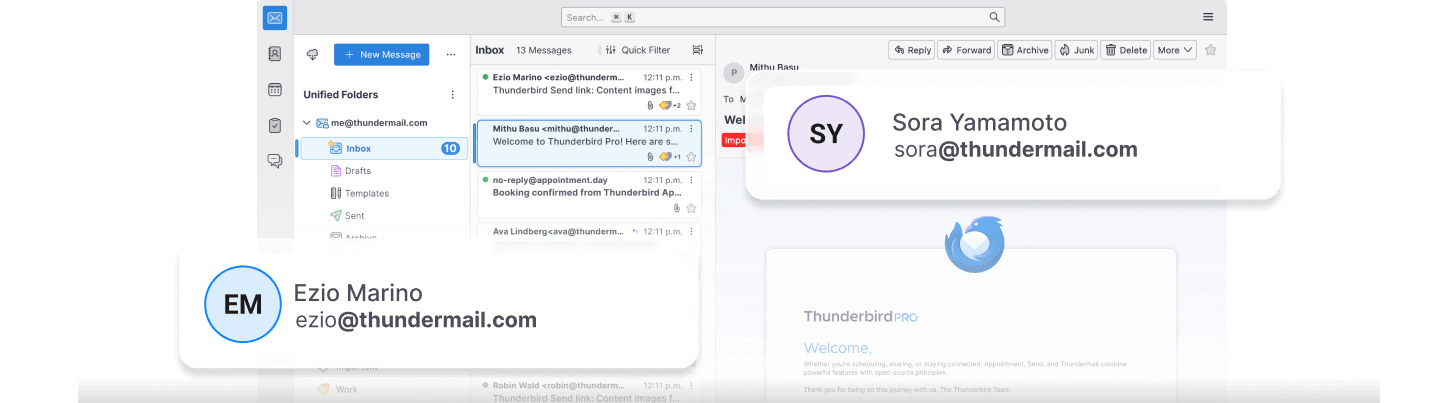
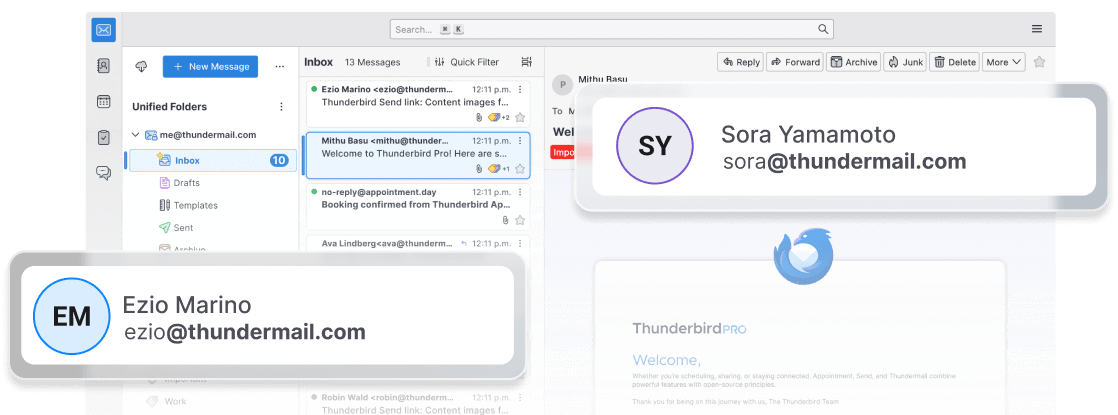
Only png by default, update thundermail hero (#988)

diff --git a/assets/less/common/images.less b/assets/less/common/images.less
@@ -1,28 +1,37 @@
-// mixins
-
-
 // Assumes you have regular and high-res versions of the image.
-.mixin-background-image(@base-path) {
+.mixin-background-image(@base-path, @use-alternates: false) {
     // Regular DPI fallback
     background-image: url('@{base-path}.png');
 
-    // Regular DPI modern formats
+    // high-res PNG, if syntax is supported.
     background-image: -webkit-image-set(
-        url('@{base-path}.avif') type('image/avif') 1x,
-        url('@{base-path}.webp') type('image/webp') 1x,
         url('@{base-path}.png') 1x,
-        url('@{base-path}-high-res.avif') type('image/avif') 2x,
-        url('@{base-path}-high-res.webp') type('image/webp') 2x,
         url('@{base-path}-high-res.png') 2x
     );
     background-image: image-set(
-        url('@{base-path}.avif') type('image/avif') 1x,
-        url('@{base-path}.webp') type('image/webp') 1x,
         url('@{base-path}.png') 1x,
-        url('@{base-path}-high-res.avif') type('image/avif') 2x,
-        url('@{base-path}-high-res.webp') type('image/webp') 2x,
         url('@{base-path}-high-res.png') 2x
     );
+
+    & when (@use-alternates = true) {
+        // Modern formats and high-res versions
+        background-image: -webkit-image-set(
+            url('@{base-path}.avif') type('image/avif') 1x,
+            url('@{base-path}.webp') type('image/webp') 1x,
+            url('@{base-path}.png') 1x,
+            url('@{base-path}-high-res.avif') type('image/avif') 2x,
+            url('@{base-path}-high-res.webp') type('image/webp') 2x,
+            url('@{base-path}-high-res.png') 2x
+        );
+        background-image: image-set(
+            url('@{base-path}.avif') type('image/avif') 1x,
+            url('@{base-path}.webp') type('image/webp') 1x,
+            url('@{base-path}.png') 1x,
+            url('@{base-path}-high-res.avif') type('image/avif') 2x,
+            url('@{base-path}-high-res.webp') type('image/webp') 2x,
+            url('@{base-path}-high-res.png') 2x
+        );
+    }
 }
 
 

diff --git a/assets/less/tbpro/product/thundermail.less b/assets/less/tbpro/product/thundermail.less
@@ -51,13 +51,13 @@ header#masthead {
     }
 
     .hero-image {
+        .mixin-background-image('/media/img/tbpro/xs-thundermail-hero');
         aspect-ratio: 1.9/1;
 
         width: 100%;
-        .mixin-background-image('/media/img/tbpro/xs-thundermail-hero');
         @media (min-width: @lg) {
             .mixin-background-image('/media/img/tbpro/xl-thundermail-hero');
-            aspect-ratio: 3.57/1;
+            aspect-ratio: 2.69/1;
         }
     }
 }
